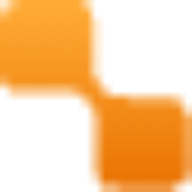
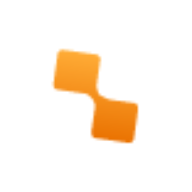
Migrate workflow images to Cloudinary and update upload logic
Added a migration script to upload existing workflow thumbnails to Cloudinary and updated seed data to use Cloudinary URLs. Increased image upload size limit to 10MB in both backend and frontend. Refactored WorkflowForm to use CloudinaryImageUpload component for thumbnail uploads. Updated and added new favicon and manifest images. Improved sticky-navbar to prevent SSR/hydration mismatch.

diff --git a/scripts/migrate-images-to-cloudinary.ts b/scripts/migrate-images-to-cloudinary.ts
@@ -1,0 +1,124 @@
+/**
+ * Migration script to upload existing workflow images to Cloudinary
+ * Run with: npx tsx scripts/migrate-images-to-cloudinary.ts
+ */
+
+import { PrismaClient } from '@prisma/client';
+import { v2 as cloudinary } from 'cloudinary';
+import fs from 'fs';
+import path from 'path';
+
+const prisma = new PrismaClient();
+
+// Configure Cloudinary
+cloudinary.config({
+  cloud_name: process.env.NEXT_PUBLIC_CLOUDINARY_CLOUD_NAME,
+  api_key: process.env.CLOUDINARY_API_KEY,
+  api_secret: process.env.CLOUDINARY_API_SECRET,
+});
+
+async function migrateImagesToCloudinary() {
+  console.log('🚀 Starting image migration to Cloudinary...\n');
+
+  try {
+    // Fetch all workflows
+    const workflows = await prisma.workflow.findMany({
+      select: {
+        id: true,
+        name: true,
+        thumbnail: true,
+      },
+    });
+
+    console.log(`📊 Found ${workflows.length} workflows to check\n`);
+
+    let uploadedCount = 0;
+    let skippedCount = 0;
+    let errorCount = 0;
+
+    for (const workflow of workflows) {
+      console.log(`\n📝 Processing: ${workflow.name}`);
+      console.log(`   Current thumbnail: ${workflow.thumbnail || 'None'}`);
+
+      // Skip if no thumbnail
+      if (!workflow.thumbnail) {
+        console.log('   ⏭  Skipped: No thumbnail');
+        skippedCount++;
+        continue;
+      }
+
+      // Skip if already a Cloudinary URL
+      if (
+        workflow.thumbnail.includes('cloudinary.com') ||
+        workflow.thumbnail.startsWith('http://') ||
+        workflow.thumbnail.startsWith('https://')
+      ) {
+        console.log('   ⏭  Skipped: Already a cloud URL');
+        skippedCount++;
+        continue;
+      }
+
+      // Check if it's a local path
+      if (workflow.thumbnail.startsWith('/thumbnails/') || workflow.thumbnail.startsWith('thumbnails/')) {
+        const fileName = workflow.thumbnail.replace(/^\/?(thumbnails\/)/, '');
+        const localPath = path.join(process.cwd(), 'public', 'thumbnails', fileName);
+
+        console.log(`   📁 Checking local file: ${localPath}`);
+
+        // Check if file exists
+        if (!fs.existsSync(localPath)) {
+          console.log('   ⚠  Warning: Local file not found');
+          errorCount++;
+          continue;
+        }
+
+        try {
+          // Upload to Cloudinary
+          console.log('   ☁  Uploading to Cloudinary...');
+          const result = await cloudinary.uploader.upload(localPath, {
+            folder: 'flowkit-workflows',
+            resource_type: 'image',
+            transformation: [
+              { width: 1200, height: 630, crop: 'limit' },
+              { quality: 'auto' },
+              { fetch_format: 'auto' },
+            ],
+          });
+
+          // Update database
+          await prisma.workflow.update({
+            where: { id: workflow.id },
+            data: {
+              thumbnail: result.secure_url,
+            },
+          });
+
+          console.log(`   ✅ Success! New URL: ${result.secure_url}`);
+          uploadedCount++;
+        } catch (error) {
+          console.error('   ❌ Error uploading:', error);
+          errorCount++;
+        }
+      } else {
+        console.log('   ⏭  Skipped: Unknown path format');
+        skippedCount++;
+      }
+    }
+
+    console.log('\n\n📊 Migration Summary:');
+    console.log(`   ✅ Uploaded: ${uploadedCount}`);
+    console.log(`   ⏭  Skipped: ${skippedCount}`);
+    console.log(`   ❌ Errors: ${errorCount}`);
+    console.log(`   📝 Total: ${workflows.length}`);
+
+    console.log('\n✨ Migration complete!');
+  } catch (error) {
+    console.error('\n❌ Migration failed:', error);
+    process.exit(1);
+  } finally {
+    await prisma.$disconnect();
+  }
+}
+
+// Run migration
+migrateImagesToCloudinary();

diff --git a/prisma/seed-workflows.ts b/prisma/seed-workflows.ts
@@ -23,7 +23,7 @@ async function seedWorkflows() {
       slug: 'automated-email-newsletter',
       description: 'Automatically send weekly newsletter emails to subscribers from Google Sheets. Includes personalization, tracking, and scheduling.',
       icon: 'mail',
-      thumbnail: '/thumbnails/email-newsletter.jpg',
+      thumbnail: 'https://res.cloudinary.com/demo/image/upload/v1312461204/sample.jpg', // Replace with actual Cloudinary URL
       difficulty: Difficulty.BEGINNER,
       featured: true,
       indiaBadge: true,
@@ -82,7 +82,7 @@ async function seedWorkflows() {
       slug: 'whatsapp-business-notifications',
       description: 'Send automated WhatsApp notifications for order updates, appointment reminders, and customer alerts using Twilio WhatsApp API.',
       icon: 'message-circle',
-      thumbnail: '/thumbnails/whatsapp-notifications.jpg',
+      thumbnail: 'https://res.cloudinary.com/demo/image/upload/v1312461204/sample.jpg', // Replace with actual Cloudinary URL
       difficulty: Difficulty.INTERMEDIATE,
       featured: true,
       indiaBadge: true,
@@ -133,7 +133,7 @@ async function seedWorkflows() {
       slug: 'ai-content-generator-chatgpt',
       description: 'Generate blog posts, social media content, and product descriptions using OpenAI GPT-4. Includes content review and publishing workflow.',
       icon: 'sparkles',
-      thumbnail: '/thumbnails/ai-content-generator.jpg',
+      thumbnail: 'https://res.cloudinary.com/demo/image/upload/v1312461204/sample.jpg', // Replace with actual Cloudinary URL
       difficulty: Difficulty.INTERMEDIATE,
       featured: true,
       indiaBadge: false,
@@ -176,7 +176,7 @@ async function seedWorkflows() {
       slug: 'lead-management-crm-sync',
       description: 'Capture leads from multiple sources (website forms, social media, emails) and automatically sync to your CRM with enrichment and scoring.',
       icon: 'users',
-      thumbnail: '/thumbnails/lead-management.jpg',
+      thumbnail: 'https://res.cloudinary.com/demo/image/upload/v1312461204/sample.jpg', // Replace with actual Cloudinary URL
       difficulty: Difficulty.ADVANCED,
       featured: false,
       indiaBadge: true,
@@ -228,7 +228,7 @@ async function seedWorkflows() {
       slug: 'database-backup-sync',
       description: 'Automated daily backup of MySQL/PostgreSQL databases to cloud storage with encryption and versioning. Includes restore workflow.',
       icon: 'database',
-      thumbnail: '/thumbnails/database-backup.jpg',
+      thumbnail: 'https://res.cloudinary.com/demo/image/upload/v1312461204/sample.jpg', // Replace with actual Cloudinary URL
       difficulty: Difficulty.ADVANCED,
       featured: false,
       indiaBadge: true,
@@ -280,7 +280,7 @@ async function seedWorkflows() {
       slug: 'social-media-auto-poster',
       description: 'Publish content simultaneously to Twitter, LinkedIn, Facebook, and Instagram from a single source. Includes scheduling and analytics.',
       icon: 'share-2',
-      thumbnail: '/thumbnails/social-media-poster.jpg',
+      thumbnail: 'https://res.cloudinary.com/demo/image/upload/v1312461204/sample.jpg', // Replace with actual Cloudinary URL
       difficulty: Difficulty.INTERMEDIATE,
       featured: true,
       indiaBadge: false,

diff --git a/src/components/admin/WorkflowForm.tsx b/src/components/admin/WorkflowForm.tsx
@@ -15,7 +15,8 @@ import { Card, CardContent, CardHeader, CardTitle } from "@/components/ui/card"
 import { toast } from "sonner"
 import { workflowFormSchema, WorkflowFormValues } from "@/lib/validations/workflow"
 import { generateSlug } from "@/lib/utils"
-import { Plus, X, Upload } from "lucide-react"
+import { Plus, X } from "lucide-react"
+import { CloudinaryImageUpload } from "@/components/admin/CloudinaryImageUpload"
 
 interface WorkflowFormProps {
   initialData?: Workflow & {
@@ -29,7 +30,6 @@ interface WorkflowFormProps {
 export default function WorkflowForm({ initialData, categories, tags }: WorkflowFormProps) {
   const router = useRouter()
   const [isLoading, setIsLoading] = useState(false)
-  const [imagePreview, setImagePreview] = useState<string | null>(initialData?.thumbnail || null)
 
   // Initialize form with default values
   const {
@@ -98,22 +98,10 @@ export default function WorkflowForm({ initialData, categories, tags }: Workflow
     }
   }, [watchName, setValue, initialData])
 
-  // Handle thumbnail upload
-  const handleThumbnailChange = async (e: React.ChangeEvent<HTMLInputElement>) => {
-    const file = e.target.files?.[0]
-    if (!file) return
-
-    // In a real app, upload to server or cloud storage
-    // For now, we'll just use a data URL for preview
-    const reader = new FileReader()
-    reader.onloadend = () => {
-      const result = reader.result as string
-      setImagePreview(result)
-      setValue("thumbnail", `/thumbnails/${file.name}`)
-    }
-    reader.readAsDataURL(file)
-
-    toast.info("Note: Save the file manually to public/thumbnails/")
+  // Handle Cloudinary thumbnail upload
+  const handleThumbnailUpload = (url: string, publicId?: string) => {
+    setValue("thumbnail", url)
+    toast.success("Image uploaded successfully!")
   }
 
   // Dynamic array helpers
@@ -323,14 +311,17 @@ export default function WorkflowForm({ initialData, categories, tags }: Workflow
           <CardTitle>Media</CardTitle>
         </CardHeader>
         <CardContent className="space-y-4">
+          <CloudinaryImageUpload
+            value={watch("thumbnail")}
+            onChange={handleThumbnailUpload}
+            folder="flowkit-workflows"
+            label="Workflow Thumbnail"
+            description="Upload a workflow thumbnail image (1200x630px recommended, max 10MB)"
+          />
+
           <div className="space-y-2">
-            <Label htmlFor="thumbnail">Thumbnail</Label>
-            <Input id="thumbnail" type="file" accept="image/*" onChange={handleThumbnailChange} />
-            {imagePreview && (
-              <div className="mt-2">
-                <img src={imagePreview} alt="Preview" className="w-full max-w-md h-48 object-cover rounded-lg" />
-              </div>
-            )}
+            <Label htmlFor="videoUrl">Video URL (Optional)</Label>
+            <Input id="videoUrl" {...register("videoUrl")} placeholder="https://youtube.com/..." />
           </div>
         </CardContent>
       </Card>

diff --git a/src/components/ui/sticky-navbar.tsx b/src/components/ui/sticky-navbar.tsx
@@ -48,18 +48,35 @@ export function StickyNavbar({
 }: StickyNavbarProps) {
   const [isVisible, setIsVisible] = useState(!showOnScroll);
   const [mobileMenuOpen, setMobileMenuOpen] = useState(false);
+  const [mounted, setMounted] = useState(false);
+
+  // Handle client-side mounting
+  useEffect(() => {
+    setMounted(true);
+  }, []);
 
   useEffect(() => {
-    if (!showOnScroll) return;
+    if (!showOnScroll) {
+      setIsVisible(true);
+      return;
+    }
 
     const handleScroll = () => {
       const scrolled = window.scrollY > scrollThreshold;
       setIsVisible(scrolled);
     };
 
+    // Check initial scroll position
+    handleScroll();
+
     window.addEventListener("scroll", handleScroll);
     return () => window.removeEventListener("scroll", handleScroll);
   }, [showOnScroll, scrollThreshold]);
+
+  // Prevent SSR/hydration mismatch
+  if (!mounted) {
+    return null;
+  }
 
   return (
     <>

diff --git a/src/components/admin/CloudinaryImageUpload.tsx b/src/components/admin/CloudinaryImageUpload.tsx
@@ -18,7 +18,7 @@ export function CloudinaryImageUpload({
   onChange,
   folder = "flowkit-workflows",
   label = "Workflow Image",
-  description = "Upload an image for this workflow (max 5MB, JPG/PNG/WebP/GIF)",
+  description = "Upload an image for this workflow (max 10MB, JPG/PNG/WebP/GIF)",
 }: CloudinaryImageUploadProps) {
   const [uploading, setUploading] = useState(false);
   const [error, setError] = useState<string | null>(null);
@@ -39,8 +39,8 @@ export function CloudinaryImageUpload({
     }
 
     // Validate file size (5MB)
-    if (file.size > 5 * 1024 * 1024) {
-      setError("File size must be less than 5MB");
+    if (file.size > 10 * 1024 * 1024) {
+      setError("File size must be less than 10MB");
       return;
     }
 

diff --git a/src/app/api/upload/route.ts b/src/app/api/upload/route.ts
@@ -29,9 +29,9 @@ export async function POST(request: NextRequest) {
     }
 
     // Validate file size (max 5MB)
-    if (file.size > 5 * 1024 * 1024) {
+    if (file.size > 10 * 1024 * 1024) {
       return NextResponse.json(
-        { error: 'File size must be less than 5MB' },
+        { error: 'File size must be less than 10MB' },
         { status: 400 }
       );
     }
